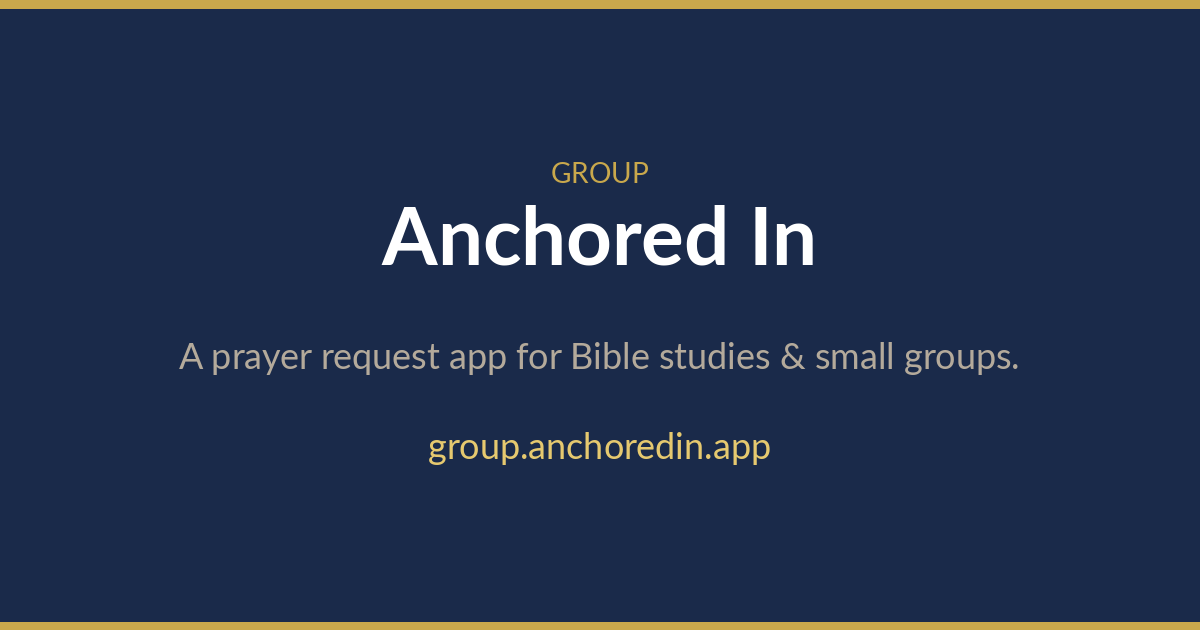
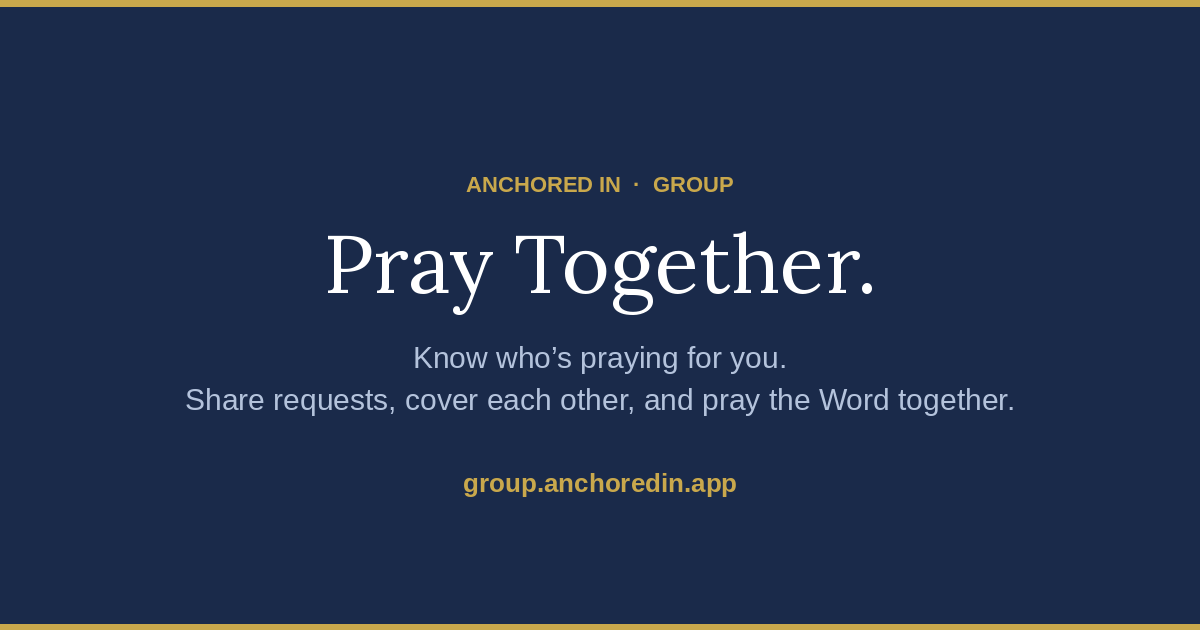
Better OG image and meta copy for sharing

diff --git a/index.html b/index.html
@@ -4,9 +4,9 @@
   <meta charset="UTF-8" />
   <meta name="viewport" content="width=device-width, initial-scale=1.0, maximum-scale=1.0" />
   <title>Anchored In — Group</title>
-  <meta name="description" content="A prayer request app for Bible studies and small groups." />
-  <meta property="og:title" content="Anchored In Group" />
-  <meta property="og:description" content="Share prayer requests and pray for each other — built for Bible studies and small groups." />
+  <meta name="description" content="Know who's praying for you. Share requests, cover each other, and pray the Word together." />
+  <meta property="og:title" content="Pray Together — Anchored In Group" />
+  <meta property="og:description" content="Know who's praying for you. Share requests, cover each other, and pray the Word together." />
   <meta property="og:image" content="https://group.anchoredin.app/og-image.png" />
   <meta property="og:url" content="https://group.anchoredin.app" />
   <meta property="og:type" content="website" />
